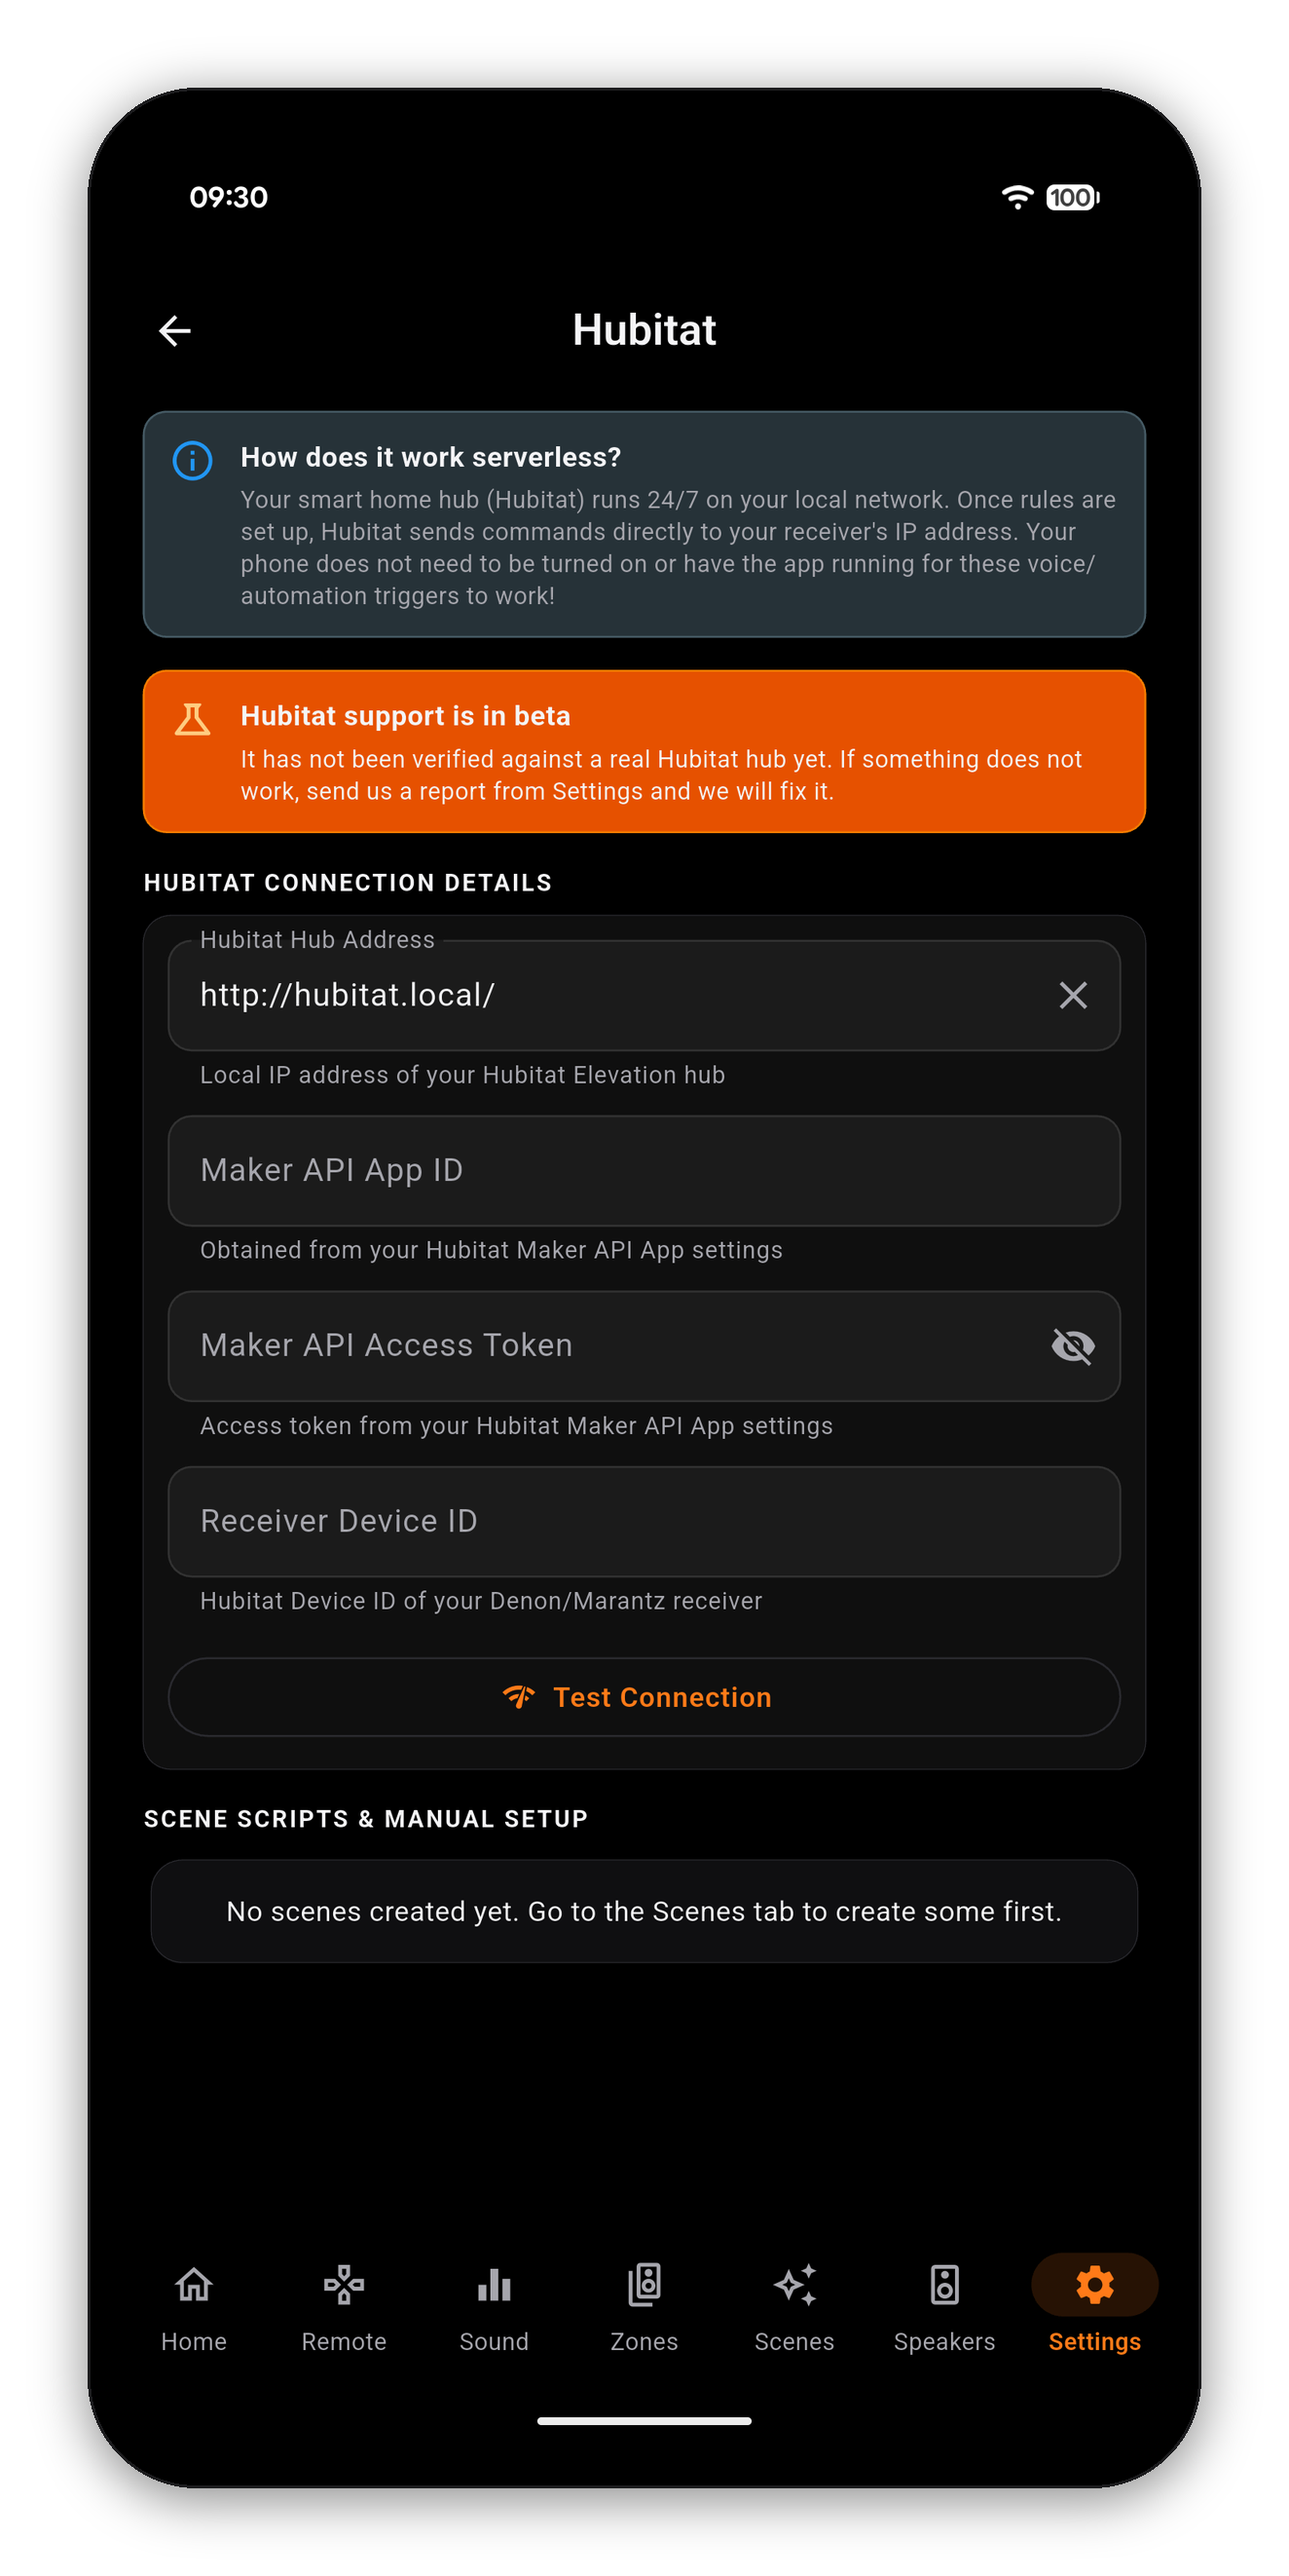
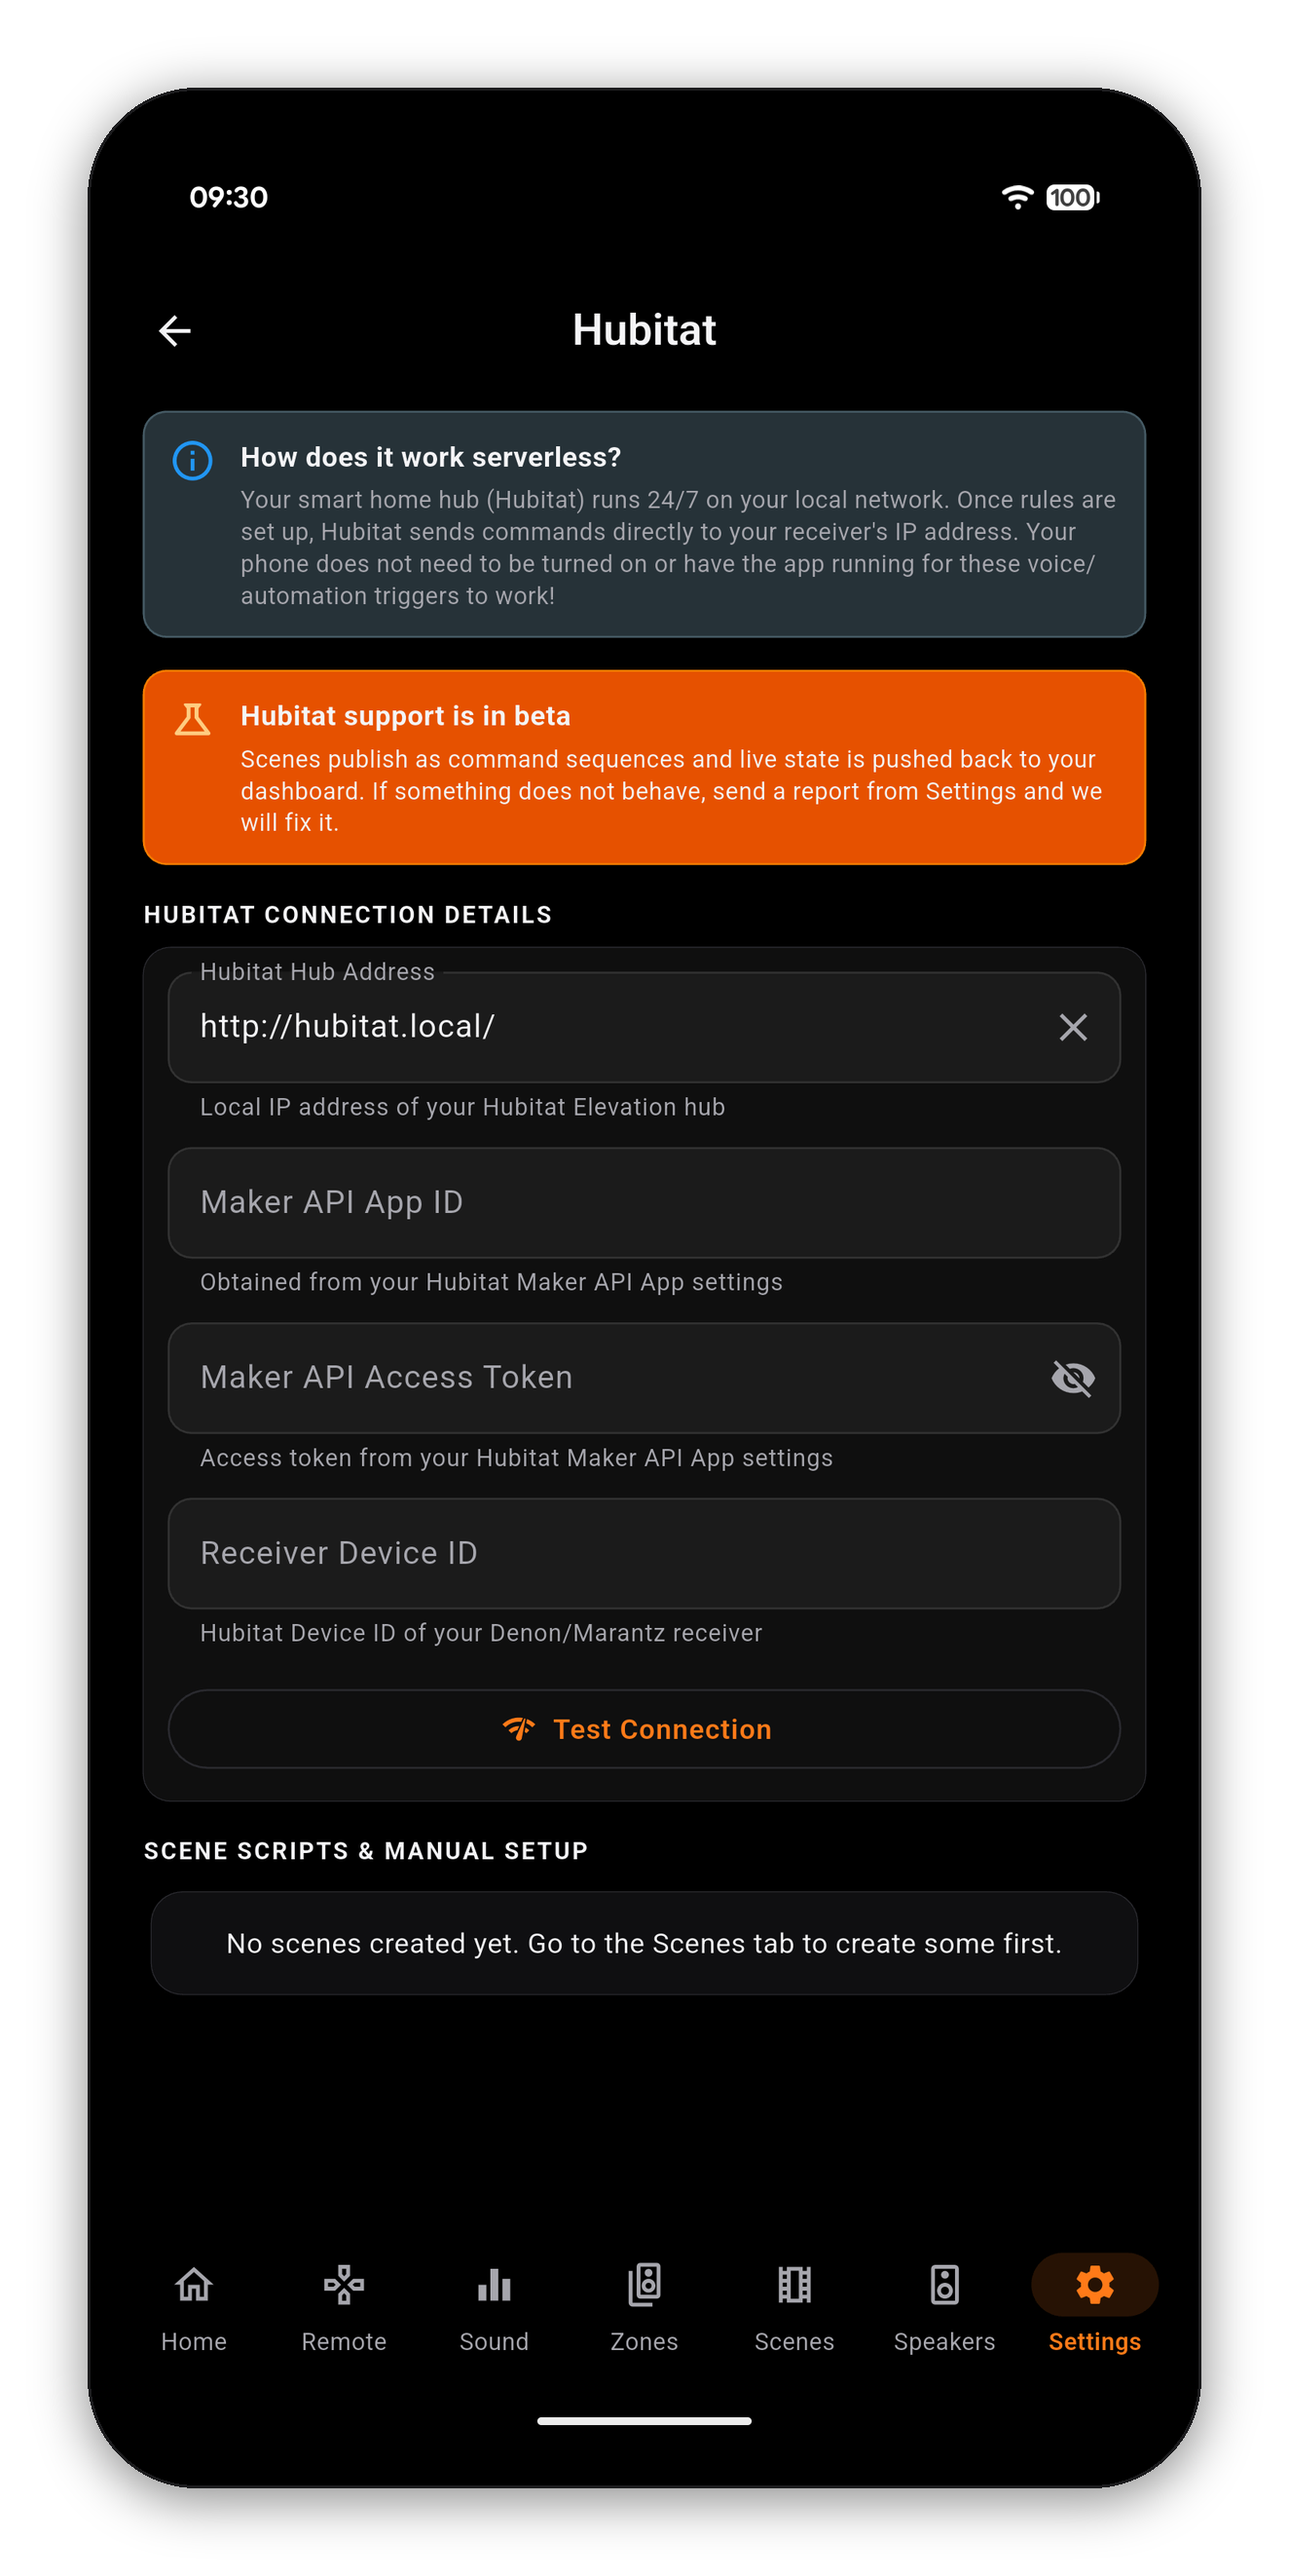
site: one phrasing for the rating, and a Hubitat shot without the hedge (#73)
Two things Meir caught on the live site.

THE STORE LIST DID NOT MATCH THE COUNT. Three pages still read "ratings
across the App Store, Google Play & Microsoft Store" while the number
above them deliberately excludes Microsoft - its endpoint returned a
zero that could mean "none yet" or "did not resolve", so it was never
counted. Naming a store whose contribution was not read is the same
class of claim the recount existed to remove.

The phrasing was also inconsistent in three different ways at once
across 20 pages - with and without the plus, with "across" and with
"on". Now one sentence everywhere: "160+ ratings on the App Store &
Google Play", or the bare "160+ ratings" where no list is wanted.

THE HUBITAT SCREENSHOT STILL SHOWED THE SENTENCE WE JUST DELETED. The
image was captured before #792, so the website was carrying "It has not
been verified against a real Hubitat hub yet" in a PNG - immortalised at
exactly the moment the app stopped saying it.

That is the failure mode of any screenshot: it is a copy of the product
frozen at a date, and nothing links the two. Re-captured from a build of
staging with the fix merged, on the same CINEMA 30, framed with the same
tool so it sits beside the rest.

Worth noting for the next copy change: a string edit is not finished
until the screenshots that show that string are re-taken. The app and
the site disagreed for the hours in between, and only Meir looking at
the page caught it.

diff --git a/docs/audyssey-dirac-control/index.html b/docs/audyssey-dirac-control/index.html
@@ -112,7 +112,7 @@
       <div class="rating" aria-label="Average user rating">
         <span class="stars" aria-hidden="true">&#9733;&#9733;&#9733;&#9733;&#9733;</span>
         <strong class="js-rate-val">4.9</strong>
-        <span>&middot; <span class="js-rate-count">160</span> ratings across the App Store, Google Play &amp; Microsoft Store</span>
+        <span>&middot; <span class="js-rate-count">160</span>+ ratings on the App Store &amp; Google Play</span>
       </div>
       <div class="badges">
         <a href="https://play.google.com/store/apps/details?id=com.miyarahub.avr_maestro"><img alt="Get it on Google Play" src="https://img.shields.io/badge/Google%20Play-Download-414141?logo=google-play&logoColor=white&style=for-the-badge" /></a>

diff --git a/docs/best-denon-marantz-app/index.html b/docs/best-denon-marantz-app/index.html
@@ -111,7 +111,7 @@
     <div class="rating" aria-label="Average user rating">
       <span class="stars" aria-hidden="true">&#9733;&#9733;&#9733;&#9733;&#9733;</span>
       <strong class="js-rate-val">4.9</strong>
-      <span>&middot; <span class="js-rate-count">160</span> ratings on the App Store, Google Play &amp; Microsoft Store</span>
+      <span>&middot; <span class="js-rate-count">160</span>+ ratings on the App Store &amp; Google Play</span>
     </div>
     <div class="badges">
       <a href="https://play.google.com/store/apps/details?id=com.miyarahub.avr_maestro"><img alt="Get it on Google Play" src="https://img.shields.io/badge/Google%20Play-Download-414141?logo=google-play&logoColor=white&style=for-the-badge" /></a>

diff --git a/docs/guide/scenes/index.html b/docs/guide/scenes/index.html
@@ -133,7 +133,7 @@
       <div class="rating" aria-label="Average user rating">
         <span class="stars" aria-hidden="true">&#9733;&#9733;&#9733;&#9733;&#9733;</span>
         <strong class="js-rate-val">4.9</strong>
-        <span>&middot; <span class="js-rate-count">160</span> ratings</span>
+        <span>&middot; <span class="js-rate-count">160</span>+ ratings</span>
       </div>
       <div class="badges">
         <a href="https://play.google.com/store/apps/details?id=com.miyarahub.avr_maestro"><img alt="Get it on Google Play" src="https://img.shields.io/badge/Google%20Play-Download-414141?logo=google-play&logoColor=white&style=for-the-badge" /></a>

diff --git a/docs/receivers/denon-avr-a1h/index.html b/docs/receivers/denon-avr-a1h/index.html
@@ -109,7 +109,7 @@
       <div class="rating" aria-label="Average user rating">
         <span class="stars" aria-hidden="true">&#9733;&#9733;&#9733;&#9733;&#9733;</span>
         <strong class="js-rate-val">4.9</strong>
-        <span>&middot; <span class="js-rate-count">160</span> ratings</span>
+        <span>&middot; <span class="js-rate-count">160</span>+ ratings</span>
       </div>
       <div class="badges">
         <a href="https://play.google.com/store/apps/details?id=com.miyarahub.avr_maestro"><img alt="Get it on Google Play" src="https://img.shields.io/badge/Google%20Play-Download-414141?logo=google-play&logoColor=white&style=for-the-badge" /></a>

diff --git a/docs/receivers/denon-avr-x3800h/index.html b/docs/receivers/denon-avr-x3800h/index.html
@@ -109,7 +109,7 @@
       <div class="rating" aria-label="Average user rating">
         <span class="stars" aria-hidden="true">&#9733;&#9733;&#9733;&#9733;&#9733;</span>
         <strong class="js-rate-val">4.9</strong>
-        <span>&middot; <span class="js-rate-count">160</span> ratings</span>
+        <span>&middot; <span class="js-rate-count">160</span>+ ratings</span>
       </div>
       <div class="badges">
         <a href="https://play.google.com/store/apps/details?id=com.miyarahub.avr_maestro"><img alt="Get it on Google Play" src="https://img.shields.io/badge/Google%20Play-Download-414141?logo=google-play&logoColor=white&style=for-the-badge" /></a>

diff --git a/docs/receivers/marantz-cinema-30/index.html b/docs/receivers/marantz-cinema-30/index.html
@@ -109,7 +109,7 @@
       <div class="rating" aria-label="Average user rating">
         <span class="stars" aria-hidden="true">&#9733;&#9733;&#9733;&#9733;&#9733;</span>
         <strong class="js-rate-val">4.9</strong>
-        <span>&middot; <span class="js-rate-count">160</span> ratings</span>
+        <span>&middot; <span class="js-rate-count">160</span>+ ratings</span>
       </div>
       <div class="badges">
         <a href="https://play.google.com/store/apps/details?id=com.miyarahub.avr_maestro"><img alt="Get it on Google Play" src="https://img.shields.io/badge/Google%20Play-Download-414141?logo=google-play&logoColor=white&style=for-the-badge" /></a>

diff --git a/docs/receivers/marantz-cinema-40/index.html b/docs/receivers/marantz-cinema-40/index.html
@@ -100,7 +100,7 @@
       <div class="rating" aria-label="Average user rating">
         <span class="stars" aria-hidden="true">&#9733;&#9733;&#9733;&#9733;&#9733;</span>
         <strong class="js-rate-val">4.9</strong>
-        <span>&middot; <span class="js-rate-count">160</span> ratings</span>
+        <span>&middot; <span class="js-rate-count">160</span>+ ratings</span>
       </div>
       <div class="badges">
         <a href="https://play.google.com/store/apps/details?id=com.miyarahub.avr_maestro"><img alt="Get it on Google Play" src="https://img.shields.io/badge/Google%20Play-Download-414141?logo=google-play&logoColor=white&style=for-the-badge" /></a>

diff --git a/docs/receivers/denon-avc-x8500ha/index.html b/docs/receivers/denon-avc-x8500ha/index.html
@@ -94,7 +94,7 @@
       <div class="rating" aria-label="Average user rating">
         <span class="stars" aria-hidden="true">&#9733;&#9733;&#9733;&#9733;&#9733;</span>
         <strong class="js-rate-val">4.9</strong>
-        <span>&middot; <span class="js-rate-count">160</span> ratings</span>
+        <span>&middot; <span class="js-rate-count">160</span>+ ratings</span>
       </div>
       <div class="badges">
         <a href="https://play.google.com/store/apps/details?id=com.miyarahub.avr_maestro"><img alt="Get it on Google Play" src="https://img.shields.io/badge/Google%20Play-Download-414141?logo=google-play&logoColor=white&style=for-the-badge" /></a>

diff --git a/docs/receivers/denon-avr-s770h/index.html b/docs/receivers/denon-avr-s770h/index.html
@@ -94,7 +94,7 @@
       <div class="rating" aria-label="Average user rating">
         <span class="stars" aria-hidden="true">&#9733;&#9733;&#9733;&#9733;&#9733;</span>
         <strong class="js-rate-val">4.9</strong>
-        <span>&middot; <span class="js-rate-count">160</span> ratings</span>
+        <span>&middot; <span class="js-rate-count">160</span>+ ratings</span>
       </div>
       <div class="badges">
         <a href="https://play.google.com/store/apps/details?id=com.miyarahub.avr_maestro"><img alt="Get it on Google Play" src="https://img.shields.io/badge/Google%20Play-Download-414141?logo=google-play&logoColor=white&style=for-the-badge" /></a>

diff --git a/docs/receivers/denon-avr-s970h/index.html b/docs/receivers/denon-avr-s970h/index.html
@@ -94,7 +94,7 @@
       <div class="rating" aria-label="Average user rating">
         <span class="stars" aria-hidden="true">&#9733;&#9733;&#9733;&#9733;&#9733;</span>
         <strong class="js-rate-val">4.9</strong>
-        <span>&middot; <span class="js-rate-count">160</span> ratings</span>
+        <span>&middot; <span class="js-rate-count">160</span>+ ratings</span>
       </div>
       <div class="badges">
         <a href="https://play.google.com/store/apps/details?id=com.miyarahub.avr_maestro"><img alt="Get it on Google Play" src="https://img.shields.io/badge/Google%20Play-Download-414141?logo=google-play&logoColor=white&style=for-the-badge" /></a>

diff --git a/docs/receivers/denon-avr-x1800h/index.html b/docs/receivers/denon-avr-x1800h/index.html
@@ -94,7 +94,7 @@
       <div class="rating" aria-label="Average user rating">
         <span class="stars" aria-hidden="true">&#9733;&#9733;&#9733;&#9733;&#9733;</span>
         <strong class="js-rate-val">4.9</strong>
-        <span>&middot; <span class="js-rate-count">160</span> ratings</span>
+        <span>&middot; <span class="js-rate-count">160</span>+ ratings</span>
       </div>
       <div class="badges">
         <a href="https://play.google.com/store/apps/details?id=com.miyarahub.avr_maestro"><img alt="Get it on Google Play" src="https://img.shields.io/badge/Google%20Play-Download-414141?logo=google-play&logoColor=white&style=for-the-badge" /></a>

diff --git a/docs/receivers/denon-avr-x2800h/index.html b/docs/receivers/denon-avr-x2800h/index.html
@@ -94,7 +94,7 @@
       <div class="rating" aria-label="Average user rating">
         <span class="stars" aria-hidden="true">&#9733;&#9733;&#9733;&#9733;&#9733;</span>
         <strong class="js-rate-val">4.9</strong>
-        <span>&middot; <span class="js-rate-count">160</span> ratings</span>
+        <span>&middot; <span class="js-rate-count">160</span>+ ratings</span>
       </div>
       <div class="badges">
         <a href="https://play.google.com/store/apps/details?id=com.miyarahub.avr_maestro"><img alt="Get it on Google Play" src="https://img.shields.io/badge/Google%20Play-Download-414141?logo=google-play&logoColor=white&style=for-the-badge" /></a>
